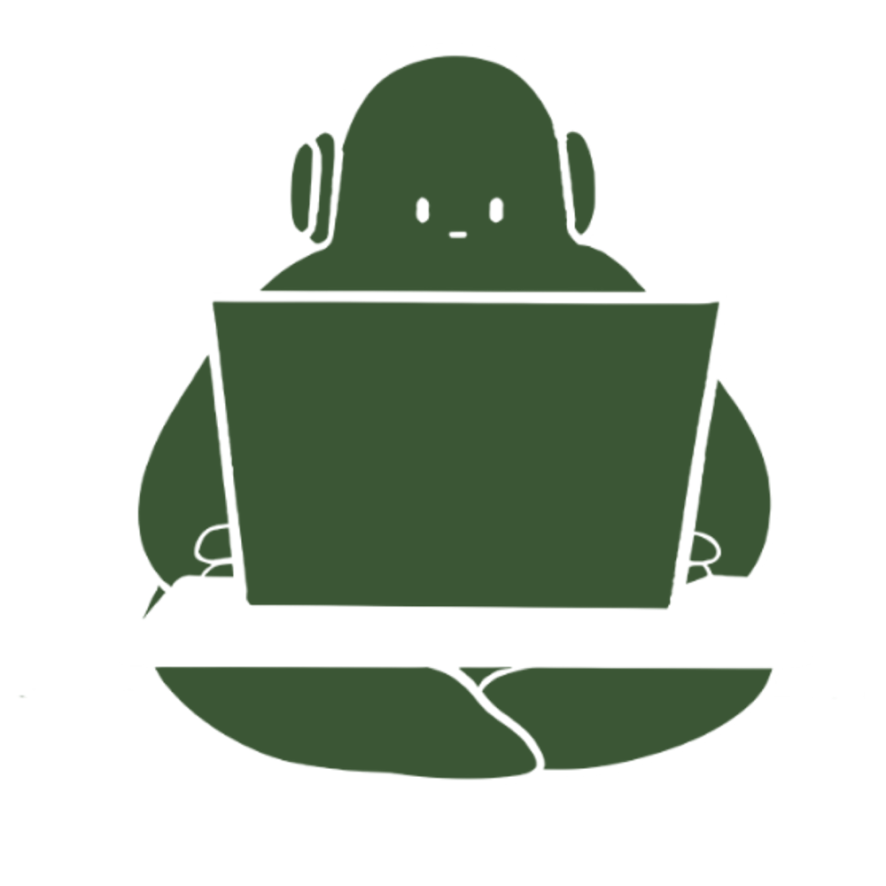
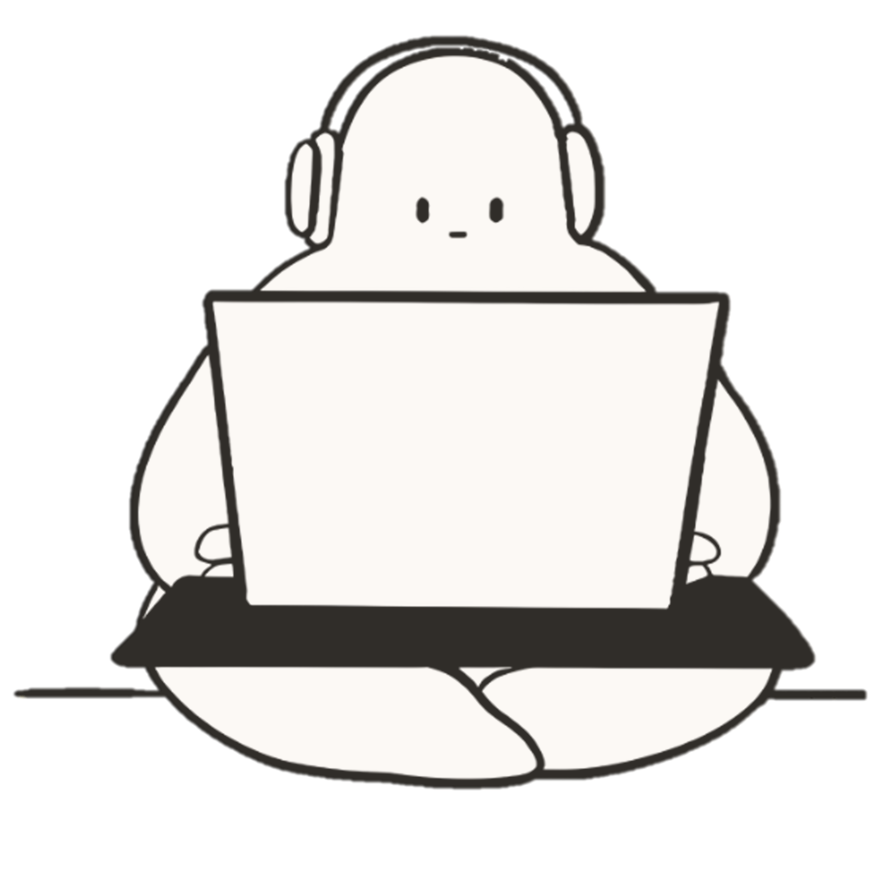
Enhance Welcome component: added responsive image handling for waves and persona, adjusted layout for dynamic height, and updated text content for improved user engagement.

diff --git a/src/pages/Welcome.tsx b/src/pages/Welcome.tsx
@@ -1,8 +1,10 @@
-import { useEffect, useMemo, useState } from 'react';
+import { useEffect, useMemo, useRef, useState } from 'react';
 import { getTelegramTheme, getTelegramWebApp } from '../utils/telegram';
 
 function WelcomeComponent() {
   const [theme, setTheme] = useState<'light' | 'dark'>(() => getTelegramTheme());
+  const [wavesHeight, setWavesHeight] = useState<number>(0);
+  const wavesImgRef = useRef<HTMLImageElement | null>(null);
 
   useEffect(() => {
     const applyAll = () => {
@@ -29,9 +31,23 @@ function WelcomeComponent() {
   }, []);
 
   const wavesSrc = useMemo(() => (theme === 'dark' ? '/lines_dark.png' : '/lines_light.png'), [theme]);
+  const personaSrc = useMemo(() => (theme === 'dark' ? '/persona.png' : '/persona_cosy.png'), [theme]);
+  const headingColor = useMemo(() => (theme === 'dark' ? '#F9FAFB' : '#3B5635'), [theme]);
+  const subheadingColor = useMemo(() => (theme === 'dark' ? '#9CA3AF' : 'rgba(59, 86, 53, 0.5)'), [theme]);
+
+  useEffect(() => {
+    const updateHeight = () => {
+      if (wavesImgRef.current) {
+        setWavesHeight(wavesImgRef.current.clientHeight);
+      }
+    };
+    updateHeight();
+    window.addEventListener('resize', updateHeight);
+    return () => window.removeEventListener('resize', updateHeight);
+  }, []);
 
   return (
-    <div style={{ minHeight: '100vh' }}>
+    <div style={{ minHeight: '100vh', paddingTop: wavesHeight }}>
       <div
         style={{
           position: 'fixed',
@@ -45,8 +61,49 @@ function WelcomeComponent() {
         <img
           src={wavesSrc}
           alt=""
+          ref={wavesImgRef}
+          onLoad={() => setWavesHeight(wavesImgRef.current?.clientHeight || 0)}
           style={{ display: 'block', width: '100%', height: 'auto' }}
         />
+        <img
+          src={personaSrc}
+          alt=""
+          style={{
+            position: 'absolute',
+            top: '50%',
+            left: '50%',
+            transform: 'translate(-50%, -50%)',
+            width: '78%',
+            height: 'auto',
+            display: 'block'
+          }}
+        />
+      </div>
+      <div
+        style={{
+          width: '85%',
+          margin: '0 auto',
+          textAlign: 'left',
+          color: headingColor,
+          fontSize: 45,
+          fontFamily: '"Arial Rounded MT Bold", "Apple Symbols", Arial, sans-serif',
+          lineHeight: 1.2
+        }}
+      >
+        Learn Java as easily as 2x2
+      </div>
+      <div
+        style={{
+          width: '85%',
+          margin: '45px auto 0',
+          textAlign: 'left',
+          color: subheadingColor,
+          fontSize: 25,
+          fontFamily: '"Arial Rounded MT Bold", "Apple Symbols", Arial, sans-serif',
+          lineHeight: 1.3
+        }}
+      >
+        Let's unravel the mysteries of programming together, in the coziest way possible.
       </div>
     </div>
   );
